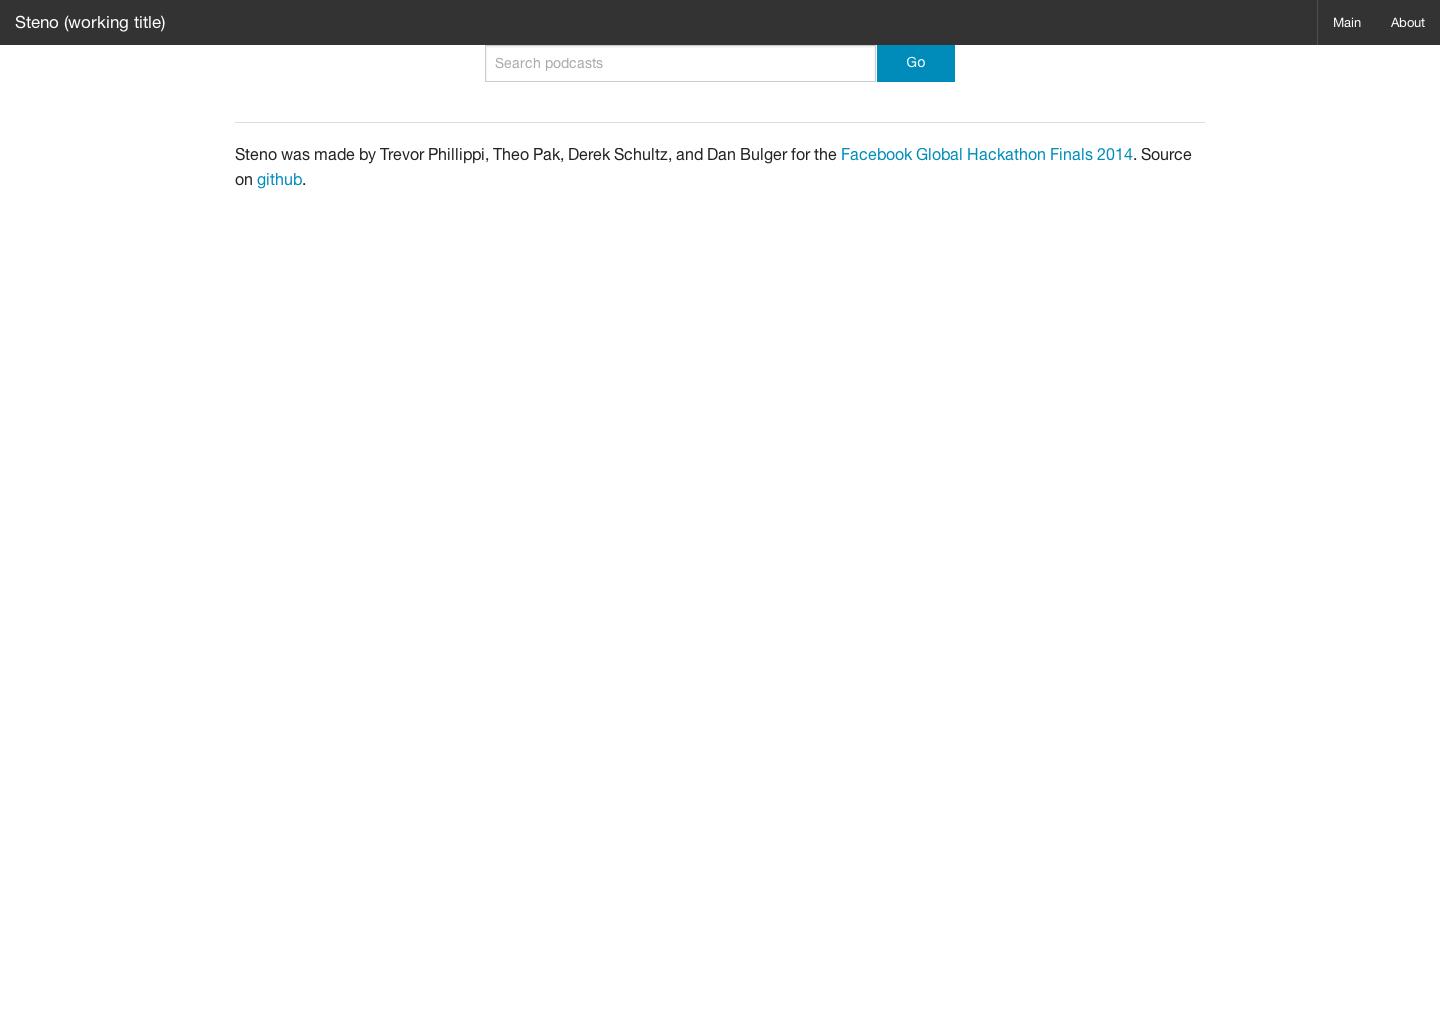
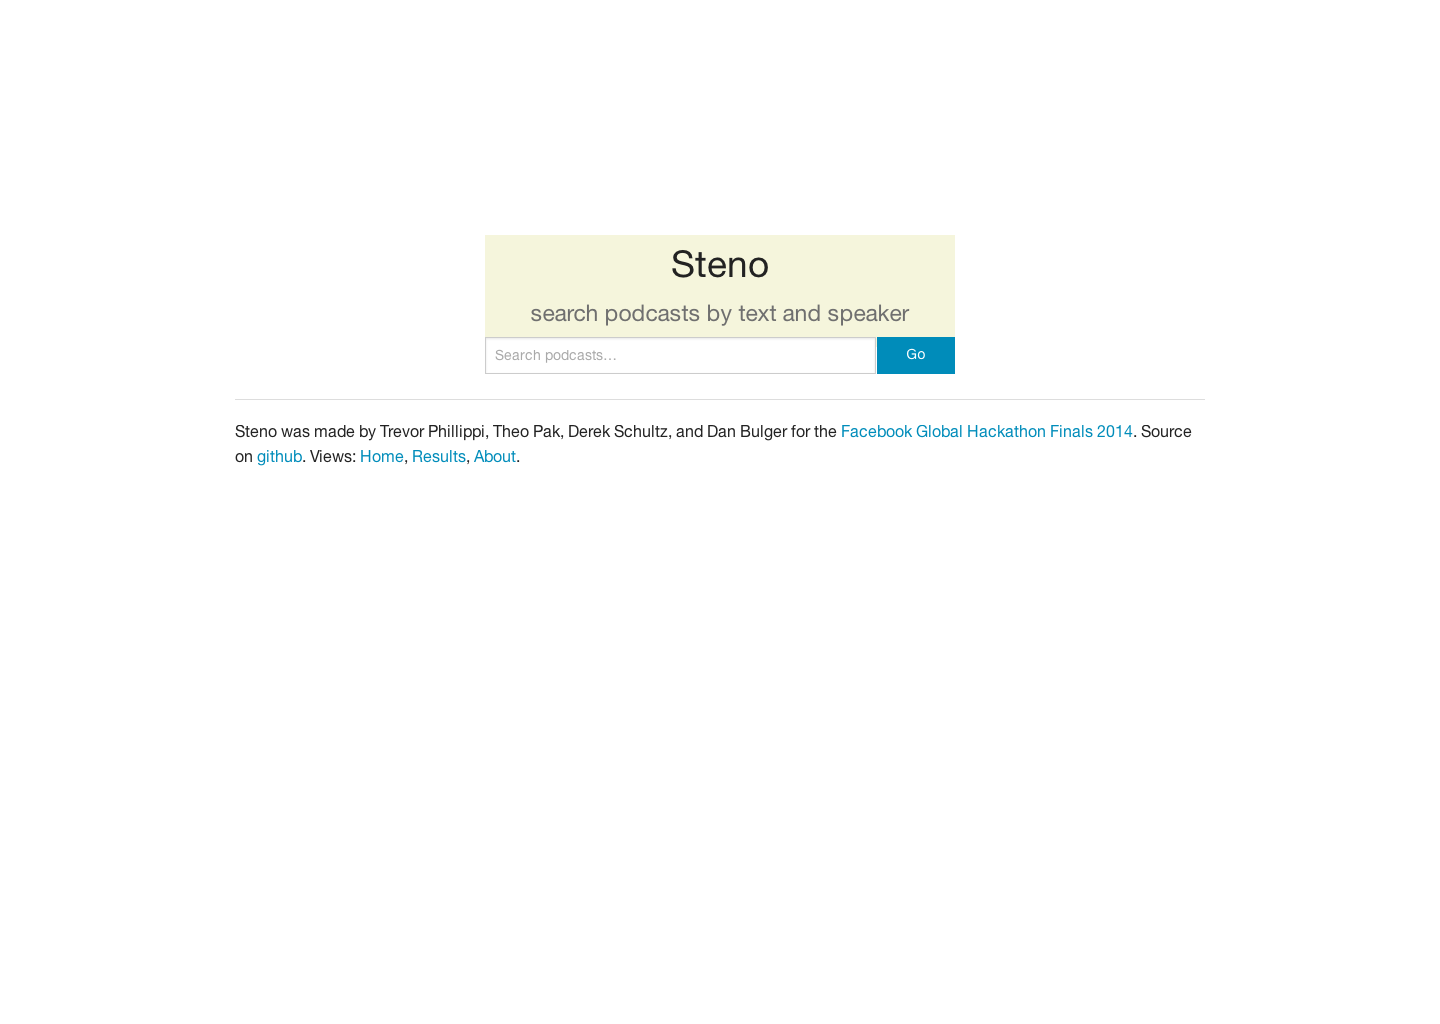
Updates screenshot.

diff --git a/frontend/app/styles/home.scss b/frontend/app/styles/home.scss
@@ -13,7 +13,7 @@
   position: relative;
   margin-top: 50%;
   margin-bottom: 2rem;
-  // transform: translate(-50%, -50%);
   height: 7rem;
-  background: beige;
+  // transform: translate(-50%, -50%);
+  // background: beige;
 }
